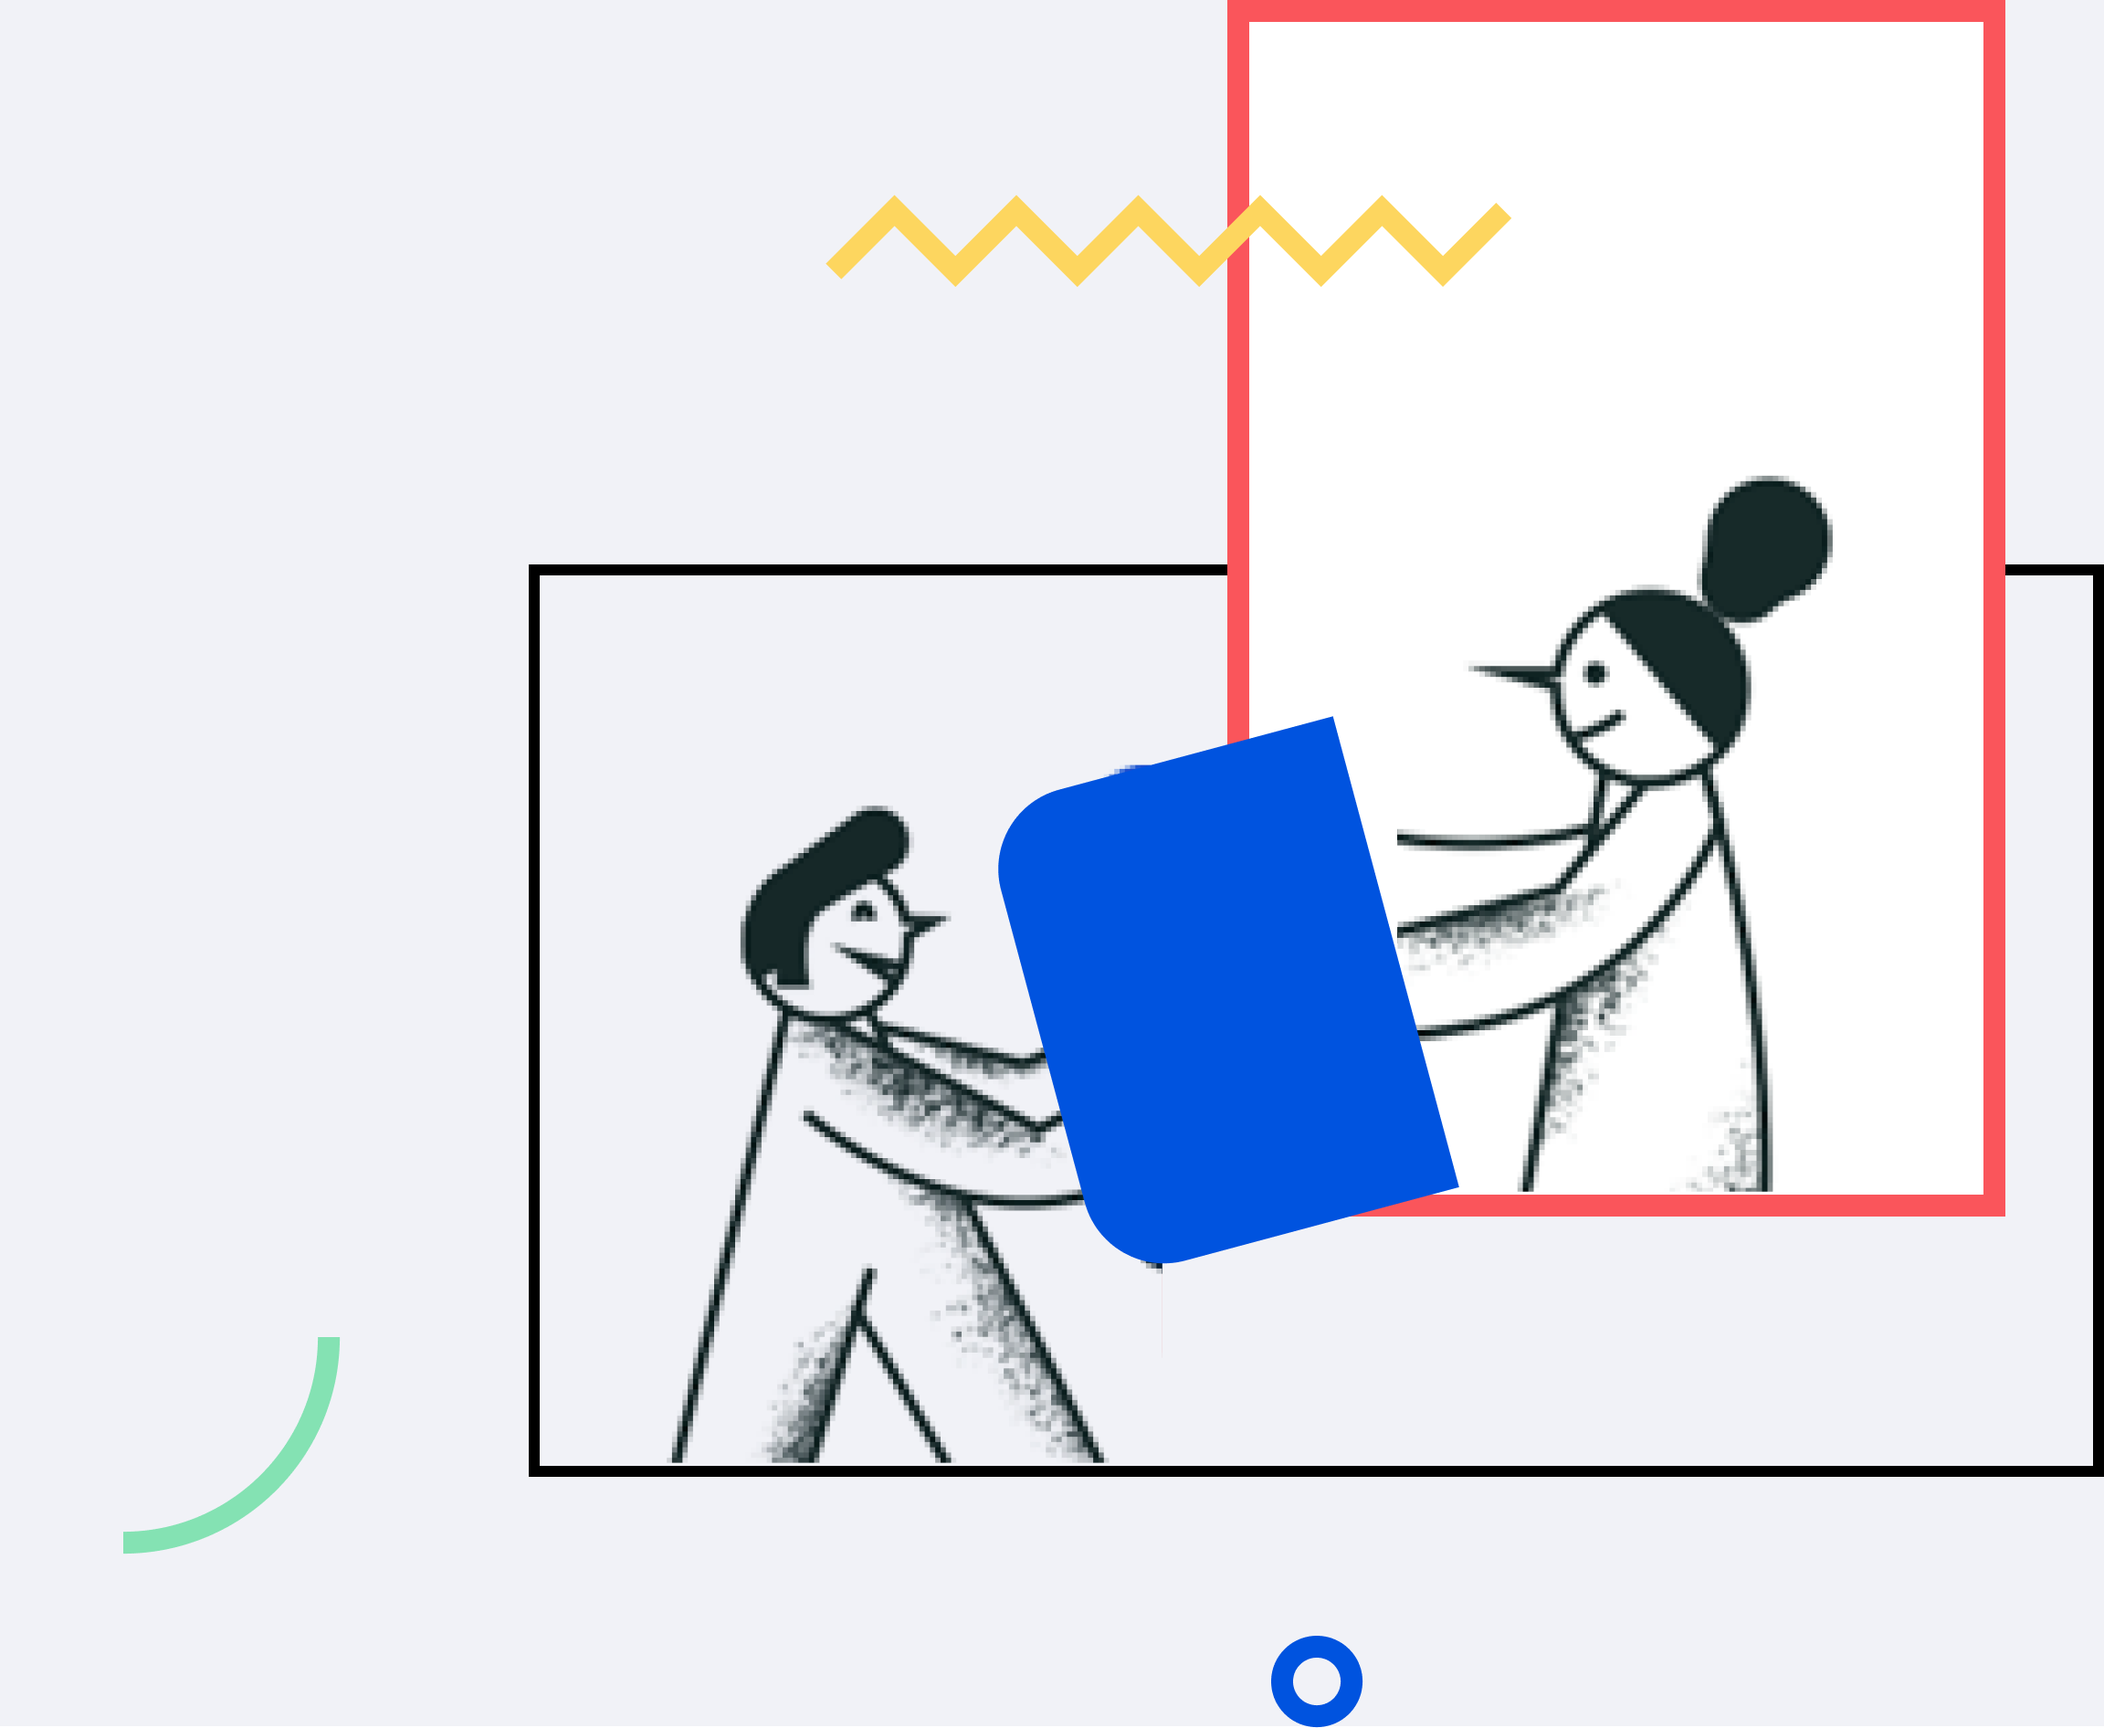
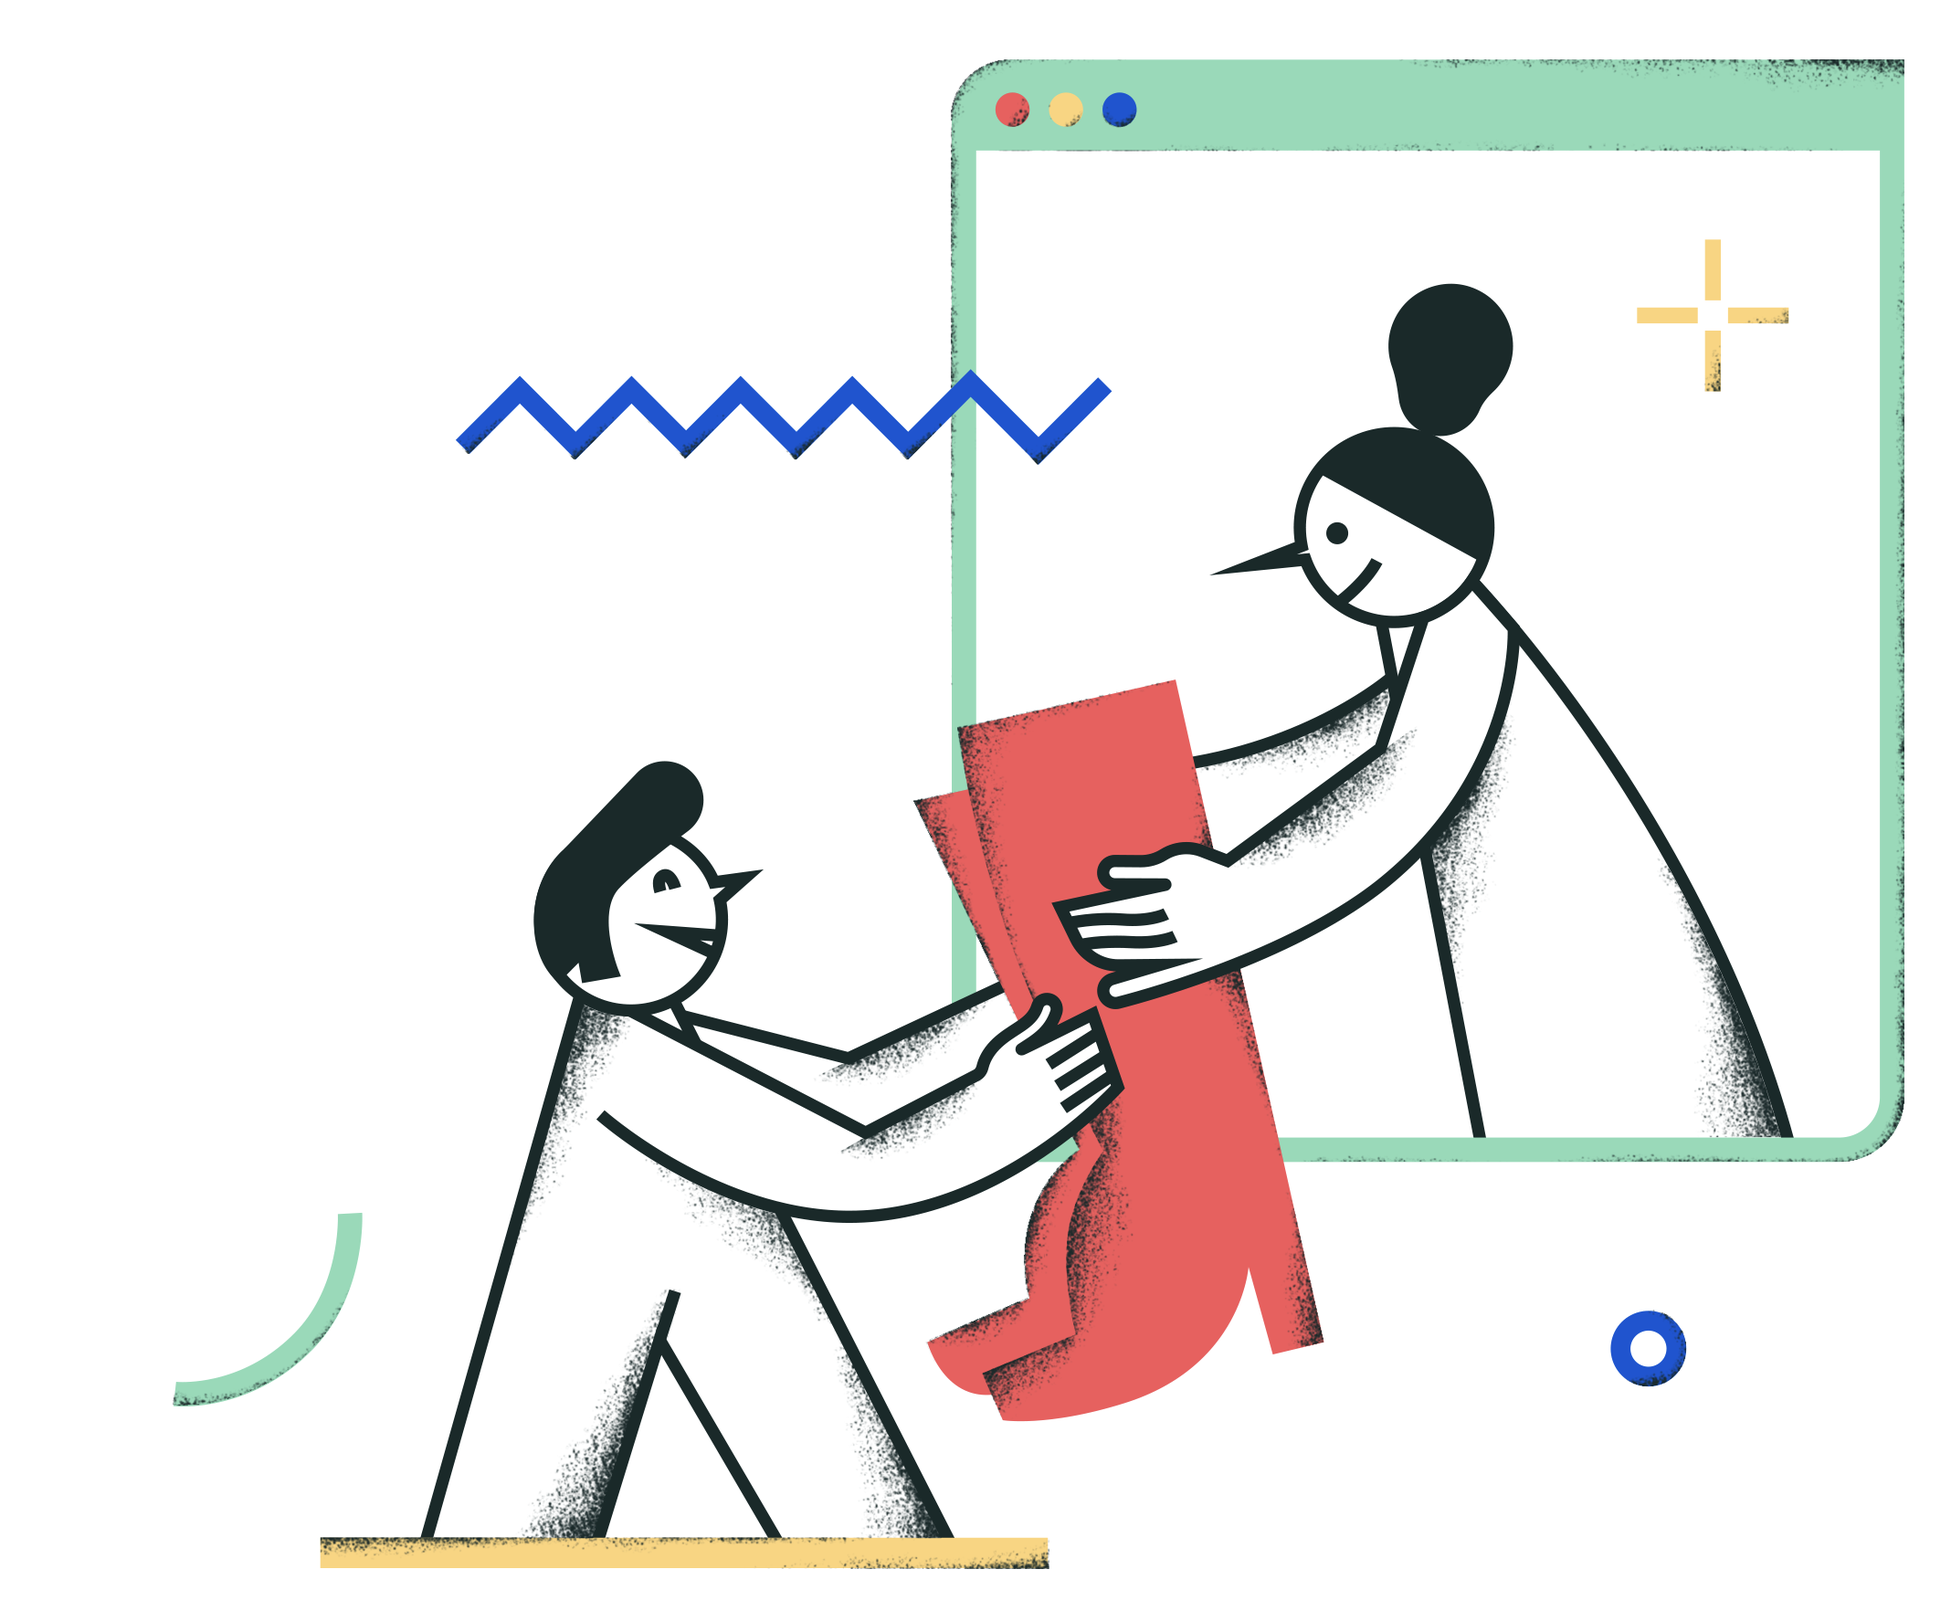
fix/COM-1170|1177|1172: исправляет отступы и заменяет картинку

Changed region(s): [[0.1545, 0.0, 1.0, 0.991], [0.0618, 0.7432, 0.1854, 0.8981], [0.5871, 0.9291, 0.6489, 1.0]]

diff --git a/data/industry/ecommerce/greeting.js b/data/industry/ecommerce/greeting.js
@@ -1,17 +1,17 @@
-import greeting_desktop_all from '../../../static/images/industry/ecommerce/desktop.all/greeting.png?responsive'
+import greeting_desktop_l from '../../../static/images/industry/ecommerce/desktop.l/greeting.png?responsive'
 import greeting_desktop_m from '../../../static/images/industry/ecommerce/desktop.m/greeting.png?responsive'
 import greeting_desktop_s from '../../../static/images/industry/ecommerce/desktop.s/greeting.png?responsive'
 import greeting_tablet_all from '../../../static/images/industry/ecommerce/tablet.all/greeting.png?responsive'
 import greeting_mobile_all from '../../../static/images/industry/ecommerce/mobile.all/greeting.png?responsive'
 
-import greeting_desktop_all_webp from '../../../static/images/industry/ecommerce/desktop.all/greeting.png?responsive_and_webp'
+import greeting_desktop_l_webp from '../../../static/images/industry/ecommerce/desktop.l/greeting.png?responsive_and_webp'
 import greeting_desktop_m_webp from '../../../static/images/industry/ecommerce/desktop.m/greeting.png?responsive_and_webp'
 import greeting_desktop_s_webp from '../../../static/images/industry/ecommerce/desktop.s/greeting.png?responsive_and_webp'
 import greeting_tablet_all_webp from '../../../static/images/industry/ecommerce/tablet.all/greeting.png?responsive_and_webp'
 import greeting_mobile_all_webp from '../../../static/images/industry/ecommerce/mobile.all/greeting.png?responsive_and_webp'
 
 const greetingImages = {
-  'desktop.all': { png: greeting_desktop_all, webp: greeting_desktop_all_webp },
+  'desktop.l': { png: greeting_desktop_l, webp: greeting_desktop_l_webp },
   'desktop.m': { png: greeting_desktop_m, webp: greeting_desktop_m_webp },
   'desktop.s': { png: greeting_desktop_s, webp: greeting_desktop_s_webp },
   'tablet.all': { png: greeting_tablet_all, webp: greeting_tablet_all_webp },

diff --git a/components/industry/Projects/Projects.styles.js b/components/industry/Projects/Projects.styles.js
@@ -85,6 +85,18 @@ const base = ({ breakpoints: { desktop, tablet, mobile }}) => css`
       margin-top: ${calcRem(312)};
       margin-bottom: ${calcRem(173)};
     }
+
+    .second-item {
+      margin-top: ${calcRem(226)};
+    }
+
+    .third-item {
+      margin-top: ${calcRem(226)};
+    }
+
+    .sub-heading {
+      grid-column: 2 / span 10;
+    }
     
     .heading {
       grid-column: 1 / span 12;
@@ -95,8 +107,20 @@ const base = ({ breakpoints: { desktop, tablet, mobile }}) => css`
 
   ${tablet.all} {
     & {
-      margin-top: ${calcRem(215)};
+      margin-top: ${calcRem(236)};
       margin-bottom: ${calcRem(117)};
+    }
+
+    .first-item {
+      margin-top: ${calcRem(70)};
+    }
+
+    .second-item {
+      margin-top: ${calcRem(84)};
+    }
+
+    .third-item {
+      margin-top: ${calcRem(99)};
     }
 
     .sub-heading {

diff --git a/components/industry/ProjectsItem/ProjectsItem.styles.js b/components/industry/ProjectsItem/ProjectsItem.styles.js
@@ -206,7 +206,7 @@ const dynamicStyles = (direction, { breakpoints: { desktop, tablet, mobile } }) 
 // после этого приема можно использовать положительный margin-top для отступов
 // firefox применяет max-content только внутри функции minmax
 const base = (imgMaxWidth, { colors,  breakpoints: { mobile }}) => css`
-  grid-template-rows: minmax(0, max-content) minmax(0, max-content) minmax(0, max-content);
+  grid-template-rows: minmax(0,max-content) minmax(0,max-content) minmax(0,max-content) 1fr;
 
   .image {
     max-width: ${imgMaxWidth};

diff --git a/components/ContactForm/ContactForm.styles.js b/components/ContactForm/ContactForm.styles.js
@@ -174,19 +174,25 @@ const base = ({ shouldShowSubHeading }) => css`
     }
 
     @media (min-width: 768px) and (max-width: 1279px) {
+      h2 {
+        margin-bottom: ${calcRem(10)};
+      }
       .sub-heading {
         grid-column: 4 / span 6;
+        margin-bottom: ${calcRem(55)};
       }
     }
 
     @media (max-width: 767px) {
       h2 {
         text-align: start;
+        margin-bottom: ${calcRem(10)};
       }
 
       .sub-heading {
         grid-column: 1 / span 6;
         text-align: start;
+        margin-bottom: ${calcRem(87)};
       }
     }
   `}

diff --git a/components/industry/Greeting/Greeting.jsx b/components/industry/Greeting/Greeting.jsx
@@ -23,7 +23,7 @@ const Greeting = ({ t, className, id, content: { heading, text, button, images, 
 
     <PictureForAllResolutions
       images={images}
-      fallback={images['desktop.all'].png}
+      fallback={images['desktop.l'].png}
       alt={t(imgAlt)}
       className="image"
     />
